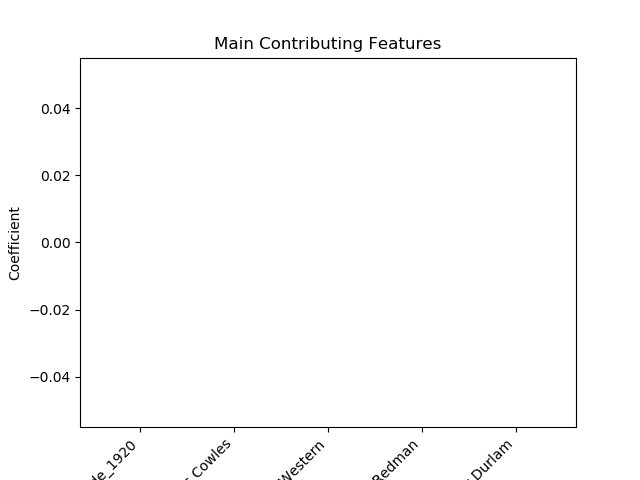
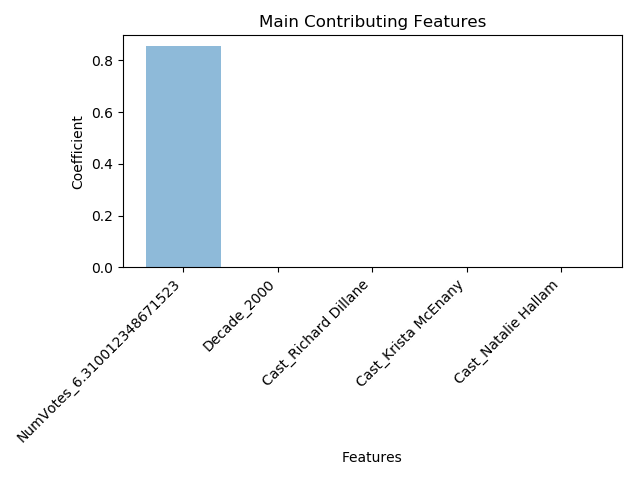
fix a few bugs concerning log normalization

diff --git a/NetflixPrize3/templates/home.html b/NetflixPrize3/templates/home.html
@@ -81,7 +81,7 @@
                 }
                 else if(div_id == "numVotes") {
                     fieldName = "numVotes";
-                    fieldValue = Math.round(Math.pow(10,{{ movieData | safe }}[fieldName]));
+                    fieldValue = {{ movieData | safe }}[fieldName];
                 }
                 text = text + "<input type=\"radio\" name=\"" + div_id + "\" value="
                  + {{ movieData | safe }}[fieldName] + " checked" + ">Yes - "

diff --git a/NetflixPrize3/NetflixPrize3/views.py b/NetflixPrize3/NetflixPrize3/views.py
@@ -42,7 +42,6 @@ def button(request):
         movieEntry = fetchFeatures()
         return render(request, 'home.html', {'titles':titles, 'movieData': movieEntry})
     # df = pd.read_csv('IMDB_Final_Movies.csv')
-    df['numVotes']= df['numVotes'].apply(lambda x : math.log(x,10))
     title = df['primaryTitle'].tolist()
     year = df['startYear'].tolist()
     sorted_titles = json.load(open("sorted_movies_for_genres.json"))
@@ -214,7 +213,7 @@ def features_construction():
             # rating
             movies_feat[i,len(onehot_feat_to_index)-2] = m[col["averageRating"]]
             # numVotes
-            movies_feat[i,len(onehot_feat_to_index)-1] = m[col["numVotes"]]
+            movies_feat[i,len(onehot_feat_to_index)-1] = math.log(m[col["numVotes"]],10)
 
     if not os.path.exists("index_to_movie.pkl"):
         f = open("index_to_movie.pkl","wb")
@@ -259,11 +258,11 @@ def convert_to_feat(movie_entry, label):
                 if len(satisfied_Y) > 0 else magicRating
     # numVotes
     # magicNumVotes = (mean_numVotes - min_numVotes) / (max_numVotes - min_numVotes)
-    magicNumVotes = mean_numVotes
+    magicNumVotes = math.log(mean_numVotes,10)
     if movie_entry["numVotes"][0] != "no":
         # feat[len(onehot_feat_to_index)-1] = (float(movie_entry["numVotes"][0]) - min_numVotes)\
         #     / (max_numVotes - min_numVotes)
-        feat[len(onehot_feat_to_index)-1] = float(movie_entry["numVotes"][0])
+        feat[len(onehot_feat_to_index)-1] = math.log(float(movie_entry["numVotes"][0]),10)
     else:
         satisfied_Y = np.where(np.array(current_user_feat_Y) == label)[0]
         feat[len(onehot_feat_to_index)-1] = \

diff --git a/NetflixPrize3/NetflixPrize3/utility.py b/NetflixPrize3/NetflixPrize3/utility.py
@@ -20,6 +20,6 @@ def plot_features(sortedLogFeat):
     plt.xlabel("Features")
     plt.title('Main Contributing Features')
     # plt.setp(plt.gca().get_xticklabels(), rotation=45, horizontalalignment='right')
-
+    plt.tight_layout()
     plt.savefig('static/NetflixPrize3/MainFeatures.png')
     plt.close()
